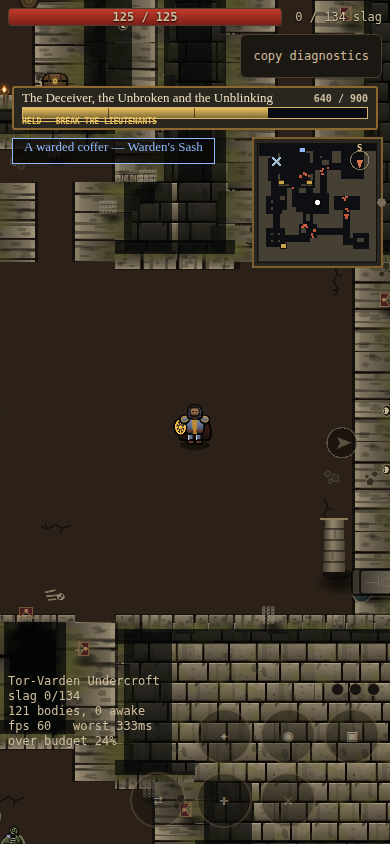
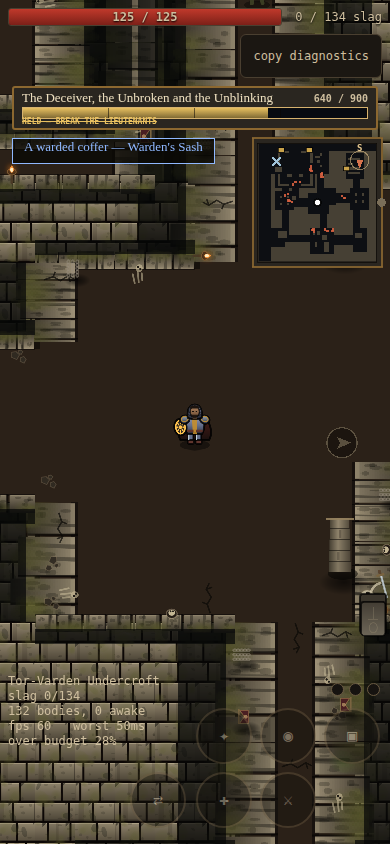
Port the Gilded Deceiver's tells and the False Dawn crystal
The encounter is telegraph and answer all the way down, and none of the
telegraphs were drawn. A Lieutenant winding his agony looked exactly like a
Lieutenant standing still; a siphon feeding the crystal looked like nothing at
all; and the crystal itself -- the fight's second clock, and the only one that
matters, because full is a wipe -- was not on screen. The fight looked fine
and was unreadable.

The tells go on the world layer in effects.js. The cone is three nested wedges
because Graphics has no radial gradient, squashed to 0.8 on the short axis so
it reads as lying on the floor, with the outline at full strength since that
is the part the eye actually uses. The siphon steps its own dashes by hand --
Graphics has no dash pattern either -- and the offset crawls with time, which
is what makes it read as flowing rather than as a rope, with the bar over the
Lieutenant's head that is the seconds you have. Zayd's lance draws too.

The crystal goes on the screen layer, placed by the CORE's dawnCrystalRect(),
which reads minimapBox(). That indirection is the whole reason both functions
exist: the canvas build wrote the arithmetic out a second time once and drew
the crystal straight through the map with its label clipped by the screen edge.
Its glass is fourteen bands clipped to the body's own half-width at each
height, which also fixed a bug on the way in -- the first version gave the tip
a half-width bar where the outline has a point.
[…]

diff --git a/phaser/src/overlay.js b/phaser/src/overlay.js
@@ -17,12 +17,22 @@
  */
 
 /* global walls, enemies, player, run, view, portal, chests, WORLD, TAU, PAL,
-          HUD_H, CHEST_KINDS, CORPSE_HUE */
+          HUD_H, CHEST_KINDS, CORPSE_HUE, DAWN_MAX, dawnCrystalRect */
 
 const hex = (css, fallback) => {
   if (typeof css !== 'string') return fallback === undefined ? 0xffffff : fallback;
   const n = parseInt(css.replace('#', ''), 16);
   return Number.isFinite(n) ? n : (fallback === undefined ? 0xffffff : fallback);
+};
+
+/* Blend two packed colours. Phaser's Graphics takes one colour per fill, so
+ * every gradient in here is banded, and this is what picks each band. */
+const mix = (a, b2, f) => {
+  const t = Math.max(0, Math.min(1, f));
+  const r = ((a >> 16 & 255) * (1 - t) + (b2 >> 16 & 255) * t) | 0;
+  const g = ((a >> 8 & 255) * (1 - t) + (b2 >> 8 & 255) * t) | 0;
+  const b = ((a & 255) * (1 - t) + (b2 & 255) * t) | 0;
+  return (r << 16) | (g << 8) | b;
 };
 
 const BOSS_BAR_H = 44;    // the canvas build's, so the map drops by the same
@@ -57,6 +67,12 @@ export class Overlay {
       fontFamily: 'ui-monospace, Menlo, monospace', fontStyle: '600',
       fontSize: '9px', color: '#e2c48c'
     }).setOrigin(0.5, 0.5).setScrollFactor(0).setDepth(8.81e5);
+    const label = (x, y, txt, size, ox) => scene.add.text(x, y, txt, {
+      fontFamily: 'ui-monospace, Menlo, monospace', fontStyle: '600',
+      fontSize: size, color: '#cebe9e'
+    }).setOrigin(ox, 0.5).setScrollFactor(0).setDepth(8.81e5).setVisible(false);
+    this.dawnLabel = label(0, 0, 'FALSE DAWN', '8px', 1);
+    this.dawnPct = label(0, 0, '', '9px', 0.5);
     // The core places the False Dawn crystal by asking where the map is.
     window.minimapBox = minimapBox;
   }
@@ -65,7 +81,93 @@ export class Overlay {
     const g = this.g;
     g.clear();
     this.map(g);
+    this.crystal(g, t);
     this.arrow(g, t);
+  }
+
+  /* The False Dawn.
+   *
+   * A column of light in a flawed crystal, under the map -- placed by the
+   * CORE's dawnCrystalRect(), which reads minimapBox(). The canvas build wrote
+   * that arithmetic out a second time here once and drew the crystal straight
+   * through the map, with its label clipped by the screen edge on top of that.
+   *
+   * It is the fight's second clock and the only one that matters: full is a
+   * wipe. So it pops when it climbs, its surface is restless so a meter that
+   * is moving looks like it is moving, and past four-fifths the rim stops
+   * being trim and starts flashing.
+   */
+  crystal(g, t) {
+    const hide = () => { this.dawnLabel.setVisible(false); this.dawnPct.setVisible(false); };
+    const bs = bossShown();
+    if (!bs || bs.invader || !run || run.dawn === undefined) return hide();
+    const f = Math.max(0, Math.min(1, (run.dawn || 0) / DAWN_MAX));
+    if (f <= 0 && !((run.breath || 0) > 0)) return hide();
+
+    const r = dawnCrystalRect();
+    // The pop is a scale about the crystal's own centre.
+    const k = 1 + (run.dawnPop || 0) * 0.06;
+    const cx = r.x + r.w / 2, cy = r.y + r.h / 2;
+    const P = (px, py) => [cx + (px - cx) * k, cy + (py - cy) * k];
+    // One outline, used for the body and the rim, so the two can never
+    // disagree about where the edge is.
+    const face = [[0.5, 0], [1, 0.17], [0.82, 0.55], [1, 0.78],
+                  [0.5, 1], [0, 0.78], [0.18, 0.55], [0, 0.17]]
+      .map(([u, v]) => P(r.x + r.w * u, r.y + r.h * v));
+    const trace = () => {
+      g.beginPath();
+      face.forEach(([px, py], i) => (i ? g.lineTo(px, py) : g.moveTo(px, py)));
+      g.closePath();
+    };
+    trace(); g.fillStyle(0x08070a, 0.86); g.fillPath();
+
+    // The light in it, rising from the bottom. Clipped to the crystal by
+    // drawing it as bands inside the body's own width at each height -- a
+    // Graphics mask for one shape every frame costs more than the shape does.
+    const fy = r.y + r.h * (1 - f);
+    const BANDS = 14;
+    const halfAt = v => {                       // the body's half-width at 0..1
+      // The tip is a POINT, not a half-width bar: the outline runs from
+      // (0.5w, 0) to (w, 0.17h), so the body is zero wide at the very top.
+      const u = v < 0.17 ? v / 0.17
+              : v < 0.55 ? 1 - ((v - 0.17) / 0.38) * 0.18
+              : v < 0.78 ? 0.82 + ((v - 0.55) / 0.23) * 0.18
+              : 1 - ((v - 0.78) / 0.22);
+        return u * (r.w / 2);
+    };
+    for (let i = 0; i < BANDS; i++) {
+      const y0 = fy + (r.y + r.h - fy) * (i / BANDS);
+      const y1 = fy + (r.y + r.h - fy) * ((i + 1) / BANDS);
+      const v = (y0 - r.y) / r.h;
+      const q = (y0 - fy) / Math.max(1, r.h - (fy - r.y));   // 0 at the surface
+      // Pale at the surface, gold in the body, dark at the base: the canvas
+      // build's three gradient stops, banded.
+      const col = q < 0.45 ? mix(0xfff2c8, 0xe8c060, q / 0.45)
+                           : mix(0xe8c060, 0xa0681c, (q - 0.45) / 0.55);
+      const hw = halfAt(Math.max(0, Math.min(1, v))) * k;
+      const [ax, ay] = P(cx, y0), [, by2] = P(cx, y1);
+      g.fillStyle(col, 0.92);
+      g.fillRect(ax - hw, ay, hw * 2, Math.max(1, by2 - ay) + 1);
+    }
+    // A restless surface, so a meter that is climbing looks like it is.
+    const sy = fy + Math.sin(t * 5) * 1.6;
+    const shw = halfAt(Math.max(0, Math.min(1, (sy - r.y) / r.h))) * k;
+    const [sx, syp] = P(cx, sy);
+    g.fillStyle(0xfff8dc, 0.75); g.fillRect(sx - shw, syp, shw * 2, 2);
+
+    const hot = f > 0.8;
+    g.lineStyle(hot ? 2.4 : 1.6,
+                hot ? mix(0xff9670, 0xffd870, 0.5 + 0.5 * Math.sin(t * 12)) : 0xd6b26e,
+                hot ? 0.95 : 0.85);
+    trace(); g.strokePath();
+
+    // Right-aligned to the crystal's own edge: centred on a 34px column the
+    // words ran off the side of the phone.
+    this.dawnLabel.setPosition(r.x + r.w, r.y - 9)
+                  .setColor(hot ? '#ffbe8c' : '#cebe9e').setVisible(true);
+    this.dawnPct.setPosition(r.x + r.w / 2, r.y + r.h + 9)
+                .setText(Math.round(run.dawn || 0) + '%')
+                .setColor(hot ? '#ffbe8c' : '#cebe9e').setVisible(true);
   }
 
   /* The stone plate everything on this layer is cut from: a slate face inside

diff --git a/phaser/src/effects.js b/phaser/src/effects.js
@@ -17,7 +17,8 @@ import Phaser from 'phaser';
 /* global arcs, particles, rings, floaters, bolts, slams, hazards, nulls,
           totems, ruptures, player, cam, FLOAT_STYLE, FLOAT_LIFE, BOLT_R,
           TAU, HEROES, run, portal, drops, PORTAL_R, PAL, LEVEL, rarityOf,
-          CORPSE_HUE */
+          CORPSE_HUE, enemies, beams, AGONY_WIND, AGONY_ARC, AGONY_REACH,
+          SIPHON_TIME */
 
 const RIM = '#060403';   // the dark edge every ordinary number carries
 
@@ -67,8 +68,10 @@ export class Effects {
     b.clear(); a.clear(); gt.clear(); li.clear();
     this.gate(gt, t);
     this.ground(b, t);
+    this.tells(b, t);
     this.beacons(b, li, t);
     this.crescents(b, t);
+    this.beamwork(li);
     this.spark(a);
     this.numbers();
   }
@@ -112,6 +115,95 @@ export class Effects {
       g.strokeCircle(s.x, s.y, s.r);
       g.fillStyle(s.husk ? 0xc8d63a : 0xe0402c, 0.10 + 0.18 * f);
       g.fillCircle(s.x, s.y, s.r * f);         // the fill IS the timer
+    }
+  }
+
+  /* The Deceiver's tells.
+   *
+   * The whole encounter is telegraph and answer: a Lieutenant winds up a cone
+   * you step out of, or opens a beam to his master that you have that long to
+   * break. Neither of them does anything you can see on the body itself, so
+   * without these the fight is damage arriving from nowhere.
+   *
+   * The cone is on the FLOOR and the timer is its brightness -- the canvas
+   * build fades a radial gradient in over AGONY_WIND, and Graphics has no
+   * gradients, so it is three nested wedges. The outline is the part that
+   * actually reads, and it is drawn at full strength.
+   */
+  tells(g, t) {
+    if (run && (run.agonyT || 0) > 0) {
+      const f = 1 - Math.max(0, Math.min(1, run.agonyT / AGONY_WIND));
+      for (const L of enemies) {
+        if (L.kind !== 'lieutenant' || L.hp <= 0 || L.agonyA === undefined) continue;
+        const wedge = (rr, al) => {
+          g.fillStyle(0xc2352a, al);
+          g.beginPath();
+          g.moveTo(L.x, L.y);
+          // Squashed to 0.8 on the short axis, as the canvas build does: a
+          // circle on a top-down floor reads as a sphere in the air.
+          for (let k = 0; k <= 12; k++) {
+            const a = L.agonyA - AGONY_ARC + (k / 12) * AGONY_ARC * 2;
+            g.lineTo(L.x + Math.cos(a) * rr,
+                     L.y + Math.sin(a) * rr * 0.8);
+          }
+          g.closePath(); g.fillPath();
+        };
+        const base = 0.36 * (0.4 + f);
+        wedge(AGONY_REACH, base * 0.30);
+        wedge(AGONY_REACH * 0.66, base * 0.34);
+        wedge(AGONY_REACH * 0.33, base * 0.40);
+        g.lineStyle(2, 0xe87860, 0.4 + 0.5 * f);
+        g.beginPath();
+        g.moveTo(L.x, L.y);
+        for (let k = 0; k <= 12; k++) {
+          const a = L.agonyA - AGONY_ARC + (k / 12) * AGONY_ARC * 2;
+          g.lineTo(L.x + Math.cos(a) * AGONY_REACH,
+                   L.y + Math.sin(a) * AGONY_REACH * 0.8);
+        }
+        g.closePath(); g.strokePath();
+      }
+    }
+
+    // The siphon: a Lieutenant feeding the crystal, and the seconds you have
+    // to stop him. Its own bar over his head, because this is the one you are
+    // meant to reach in time.
+    const boss = run && run.boss;
+    if (!boss || boss.hp <= 0) return;
+    for (const L of enemies) {
+      if (L.kind !== 'lieutenant' || L.hp <= 0 || !L.siphonOn) continue;
+      // Dashed and crawling towards the boss. Phaser's Graphics has no dash
+      // pattern, so the dashes are stepped by hand -- and the offset is what
+      // makes the beam read as flowing rather than as a rope.
+      const dx = boss.x - L.x, dy = boss.y - L.y;
+      const len = Math.hypot(dx, dy) || 1;
+      const ux = dx / len, uy = dy / len;
+      const period = 16, dash = 9;
+      g.lineStyle(3, 0xe8c060, 0.75);
+      for (let d = (t * 60) % period - period; d < len; d += period) {
+        const a = Math.max(0, d), b2 = Math.min(len, d + dash);
+        if (b2 <= a) continue;
+        g.beginPath();
+        g.moveTo(L.x + ux * a, L.y + uy * a);
+        g.lineTo(L.x + ux * b2, L.y + uy * b2);
+        g.strokePath();
+      }
+      const w = 46, f = Math.max(0, Math.min(1, 1 - L.casting / SIPHON_TIME));
+      const bx = L.x - w / 2, by = L.y - L.r - 20;
+      g.fillStyle(0x08070a, 0.9); g.fillRect(bx, by, w, 5);
+      g.fillStyle(0xe8c060, 0.95); g.fillRect(bx, by, w * f, 5);
+      g.lineStyle(1, 0xd6b26e, 0.8); g.strokeRect(bx - 0.5, by - 0.5, w + 1, 6);
+    }
+  }
+
+  /* Beams -- Zayd's lance and anything else that fires a line. Additive, so a
+   * beam over a lit floor brightens it, with a white core inside the hue. */
+  beamwork(g) {
+    for (const b of beams) {
+      const f = b.life / b.max;
+      g.lineStyle(3 + f * 9, hex(b.hue || '#5fd0ff'), f * 0.7);
+      g.beginPath(); g.moveTo(b.x, b.y); g.lineTo(b.ex, b.ey); g.strokePath();
+      g.lineStyle(1.6 + f * 2.4, 0xeefaff, f * 0.9);
+      g.beginPath(); g.moveTo(b.x, b.y); g.lineTo(b.ex, b.ey); g.strokePath();
     }
   }
 

diff --git a/phaser/README.md b/phaser/README.md
@@ -57,9 +57,9 @@ the hero, the kit casts, the HUD reads the run.
 |---|---|
 | `npm run smoke:delve` | 14 checks — the world draws and is dressed, the gait is distance-driven |
 | `npm run smoke:world` | 18 checks — the waygate, the coffers, the slag, the beacons |
-| `npm run smoke:overlay` | 17 checks — the map, the arrow out, the boss bar, the toast |
+| `npm run smoke:overlay` | 22 checks — the map, the arrow out, the boss bar, the crystal |
 | `npm run smoke:play` | 16 checks — the stick, the kit, and the HUD's layout |
-| `npm run smoke:fx` | 11 checks — the fight reads, the crescent counted in pixels |
+| `npm run smoke:fx` | 15 checks — the fight reads, the crescent and the tells in pixels |
 | `npm run smoke:loop` | 15 checks — dying, the outcome, the gate-house, descending again |
 | `npm run smoke:forge` | 13 checks — equipping, and that worn gear reaches the hero |
 | `npm run smoke:spend` | 13 checks — the vendor and the hall, and that coin buys what it says |
@@ -96,6 +96,20 @@ a damage affix takes him from 43.8 to 55.8 before he descends.
 The Vendor and the Hall spend it: commissions, tempers, reliquaries, and four
 stations of three tiers that outlast every delve. Prices come from the core,
 so the number on the button is the number that will be taken.
+
+The Deceiver's encounter reads. A Lieutenant's agony winds as a cone on the
+floor that brightens as it comes, and his siphon runs to his master as a
+crawling dashed line with its own bar over his head, because that is the one
+you are meant to reach in time. The False Dawn hangs under the map as a column
+of light in a flawed crystal — placed by the core's own `dawnCrystalRect()`,
+which reads `minimapBox()`, so the two cannot drift apart the way they did once
+in the canvas build — restless at the surface, and past four fifths the rim
+stops being trim and starts flashing. Zayd's lance draws the line it cut.
+
+Phaser's Graphics has no gradients, so every gradient in the port is banded:
+the crystal's glass, the beacons' shafts, the agony cone. That is what a
+gradient is once it is rasterised, and at these sizes the banding is invisible
+while the cost is a handful of quads instead of a texture upload a frame.
 
 You can tell where you are. The map plots the rock, whatever has noticed you
 — and nothing that has not, because plotting every dormant body hands over the
